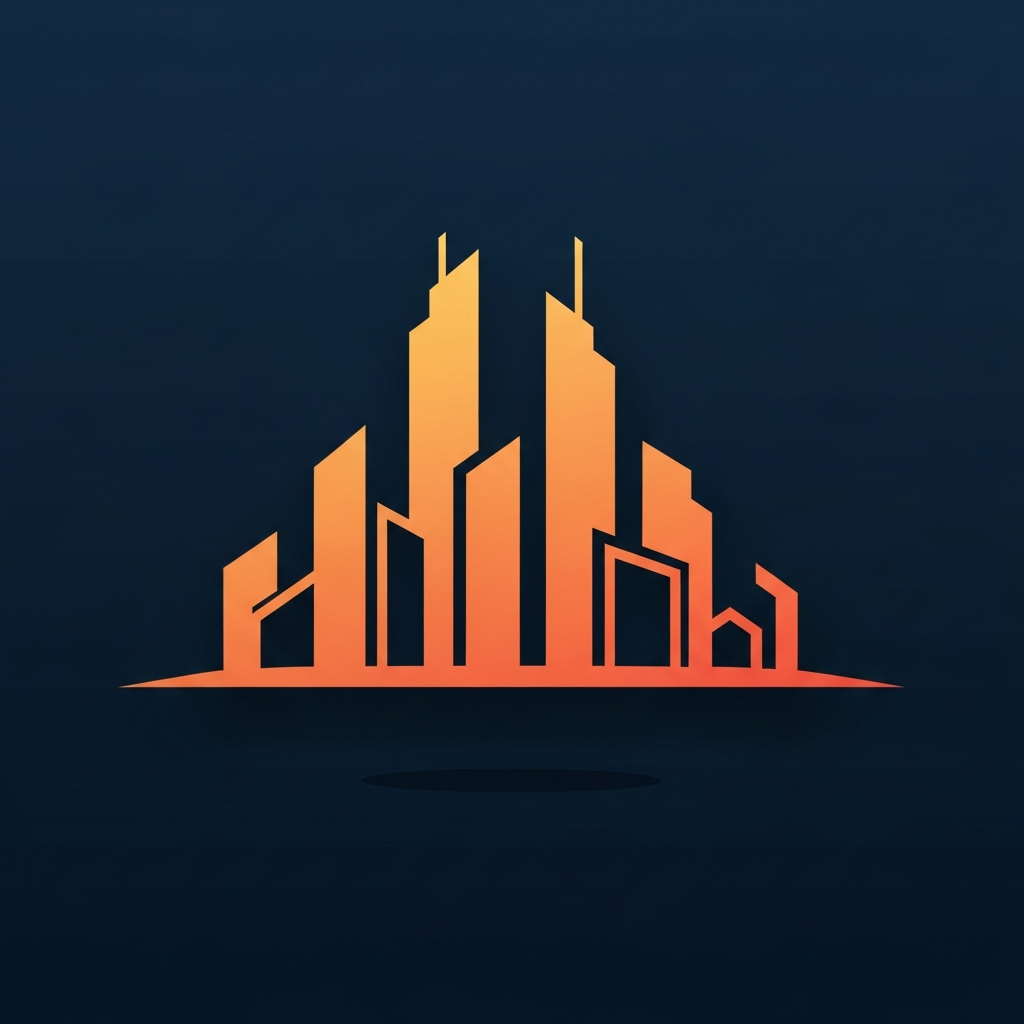
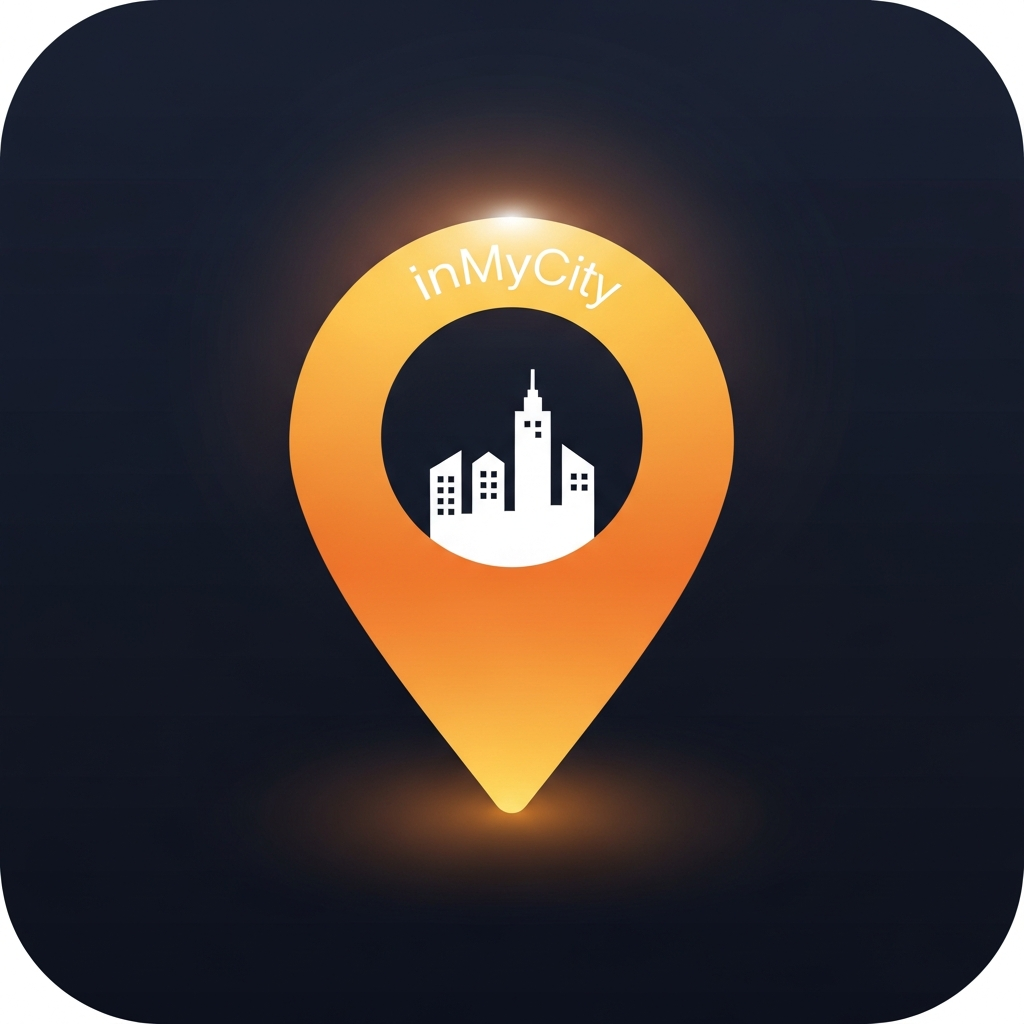
Update app to include secure login and personalized user profiles
Implement full PKCE authentication flow, integrate user data into the profile screen, and update app icon and splash screen.

Replit-Commit-Author: Agent
Replit-Commit-Session-Id: 15028fc7-a55e-48a7-9944-121663a23b5f
Replit-Commit-Checkpoint-Type: full_checkpoint
Replit-Commit-Event-Id: 18d10f1f-d669-42d3-af11-c0385d374e4c
Replit-Commit-Screenshot-Url: https://storage.googleapis.com/screenshot-production-us-central1/32ced0a7-9022-4a14-b569-9091b1f04a15/15028fc7-a55e-48a7-9944-121663a23b5f/f9QjFmu
Replit-Helium-Checkpoint-Created: true

diff --git a/artifacts/inmycity/app/(tabs)/profile.tsx b/artifacts/inmycity/app/(tabs)/profile.tsx
@@ -1,4 +1,4 @@
-import { useState } from "react";
+import React, { useState } from "react";
 import {
   View,
   Text,
@@ -7,20 +7,30 @@ import {
   TouchableOpacity,
   ScrollView,
   RefreshControl,
+  ActivityIndicator,
 } from "react-native";
+import { Image } from "expo-image";
 import { useSafeAreaInsets } from "react-native-safe-area-context";
 import { Feather } from "@expo/vector-icons";
 
 import { useColors } from "@/hooks/useColors";
 import { useGetFavorites, useGetCollections } from "@workspace/api-client-react";
+import { useAuth } from "@/lib/auth";
 import { PlaceCard } from "@/components/PlaceCard";
 import { SkeletonCard } from "@/components/SkeletonCard";
 
 type Tab = "favorites" | "collections";
 
+function getInitials(firstName: string | null, lastName: string | null): string {
+  const f = firstName?.trim()[0] ?? "";
+  const l = lastName?.trim()[0] ?? "";
+  return (f + l).toUpperCase() || "?";
+}
+
 export default function ProfileTab() {
   const colors = useColors();
   const insets = useSafeAreaInsets();
+  const { user, isLoading: authLoading, isAuthenticated, login, logout } = useAuth();
   const [activeTab, setActiveTab] = useState<Tab>("favorites");
 
   const { data: favorites, isLoading: favLoading, refetch: refetchFav } = useGetFavorites();
@@ -30,6 +40,18 @@ export default function ProfileTab() {
   const isRefreshing = favLoading || colLoading;
   const topPadding = Platform.OS === "web" ? 20 : insets.top + 8;
   const bottomPadding = Platform.OS === "web" ? 84 : 84 + insets.bottom;
+
+  const displayName = isAuthenticated && user
+    ? [user.firstName, user.lastName].filter(Boolean).join(" ") || user.email || "Member"
+    : "Guest";
+
+  const initials = isAuthenticated && user
+    ? getInitials(user.firstName, user.lastName)
+    : "G";
+
+  const subtitle = isAuthenticated && user
+    ? user.email ?? "Signed in"
+    : "Sign in to sync across devices";
 
   return (
     <ScrollView
@@ -45,21 +67,49 @@ export default function ProfileTab() {
 
       {/* Avatar card */}
       <View style={[styles.avatarCard, { backgroundColor: colors.card, borderColor: colors.border }]}>
-        <View style={[styles.avatar, { backgroundColor: colors.amber }]}>
-          <Text style={styles.avatarInitial}>G</Text>
-        </View>
+        {/* Avatar */}
+        {isAuthenticated && user?.profileImageUrl ? (
+          <Image
+            source={{ uri: user.profileImageUrl }}
+            style={styles.avatarImg}
+            contentFit="cover"
+          />
+        ) : (
+          <View style={[styles.avatar, { backgroundColor: colors.amber }]}>
+            <Text style={styles.avatarInitial}>{initials}</Text>
+          </View>
+        )}
+
+        {/* Name + sub */}
         <View style={styles.avatarInfo}>
-          <Text style={[styles.userName, { color: colors.foreground }]}>Guest</Text>
-          <Text style={[styles.userSub, { color: colors.mutedForeground }]}>
-            Sign in to sync across devices
+          <Text style={[styles.userName, { color: colors.foreground }]} numberOfLines={1}>
+            {displayName}
+          </Text>
+          <Text style={[styles.userSub, { color: colors.mutedForeground }]} numberOfLines={1}>
+            {subtitle}
           </Text>
         </View>
-        <TouchableOpacity
-          style={[styles.signInBtn, { backgroundColor: colors.amber }]}
-          activeOpacity={0.85}
-        >
-          <Text style={styles.signInBtnText}>Sign In</Text>
-        </TouchableOpacity>
+
+        {/* Sign In / Sign Out button */}
+        {authLoading ? (
+          <ActivityIndicator size="small" color={colors.amber} />
+        ) : isAuthenticated ? (
+          <TouchableOpacity
+            style={[styles.signInBtn, { backgroundColor: colors.muted }]}
+            onPress={logout}
+            activeOpacity={0.85}
+          >
+            <Text style={[styles.signInBtnText, { color: colors.foreground }]}>Sign Out</Text>
+          </TouchableOpacity>
+        ) : (
+          <TouchableOpacity
+            style={[styles.signInBtn, { backgroundColor: colors.amber }]}
+            onPress={login}
+            activeOpacity={0.85}
+          >
+            <Text style={[styles.signInBtnText, { color: "#fff" }]}>Sign In</Text>
+          </TouchableOpacity>
+        )}
       </View>
 
       {/* Saved section */}
@@ -106,7 +156,9 @@ export default function ProfileTab() {
                 <Feather name="heart" size={28} color={colors.mutedForeground} />
                 <Text style={[styles.emptyTitle, { color: colors.foreground }]}>No favorites yet</Text>
                 <Text style={[styles.emptyText, { color: colors.mutedForeground }]}>
-                  Tap the heart on any place to save it here.
+                  {isAuthenticated
+                    ? "Tap the heart on any place to save it here."
+                    : "Sign in to save and sync favorites across devices."}
                 </Text>
               </View>
             ) : (
@@ -158,9 +210,9 @@ export default function ProfileTab() {
       <Text style={[styles.sectionLabel, { color: colors.mutedForeground }]}>SETTINGS</Text>
       <View style={[styles.settingsCard, { backgroundColor: colors.card, borderColor: colors.border }]}>
         {([
-          { icon: "bell" as const, label: "Notifications" },
-          { icon: "moon" as const, label: "Dark Mode" },
-          { icon: "info" as const, label: "About inMyCity" },
+          { icon: "bell" as const,  label: "Notifications" },
+          { icon: "moon" as const,  label: "Dark Mode"     },
+          { icon: "info" as const,  label: "About inMyCity" },
         ]).map(({ icon, label }, idx, arr) => (
           <TouchableOpacity
             key={label}
@@ -201,12 +253,13 @@ const styles = StyleSheet.create({
     }),
   },
   avatar: { width: 52, height: 52, borderRadius: 26, alignItems: "center", justifyContent: "center" },
+  avatarImg: { width: 52, height: 52, borderRadius: 26 },
   avatarInitial: { fontFamily: "Inter_700Bold", fontSize: 22, color: "#fff" },
   avatarInfo: { flex: 1 },
   userName: { fontFamily: "Inter_700Bold", fontSize: 17, marginBottom: 2 },
   userSub: { fontFamily: "Inter_400Regular", fontSize: 12 },
   signInBtn: { paddingHorizontal: 16, paddingVertical: 8, borderRadius: 16 },
-  signInBtnText: { fontFamily: "Inter_600SemiBold", fontSize: 13, color: "#fff" },
+  signInBtnText: { fontFamily: "Inter_600SemiBold", fontSize: 13 },
   sectionLabel: {
     fontFamily: "Inter_600SemiBold",
     fontSize: 11,
@@ -225,10 +278,7 @@ const styles = StyleSheet.create({
       default: { shadowColor: "#000", shadowOffset: { width: 0, height: 2 }, shadowOpacity: 0.06, shadowRadius: 12, elevation: 3 },
     }),
   },
-  tabRow: {
-    flexDirection: "row",
-    borderBottomWidth: StyleSheet.hairlineWidth,
-  },
+  tabRow: { flexDirection: "row", borderBottomWidth: StyleSheet.hairlineWidth },
   tab: {
     flex: 1,
     flexDirection: "row",

diff --git a/artifacts/inmycity/lib/auth.tsx b/artifacts/inmycity/lib/auth.tsx
@@ -8,11 +8,14 @@ import React, {
 } from "react";
 import * as WebBrowser from "expo-web-browser";
 import * as SecureStore from "expo-secure-store";
+import * as Crypto from "expo-crypto";
 import { Platform } from "react-native";
 
 WebBrowser.maybeCompleteAuthSession();
 
 const AUTH_TOKEN_KEY = "auth_session_token";
+const ISSUER_URL = "https://replit.com/oidc";
+const REDIRECT_URI = "inmycity://oauth";
 
 function getApiBaseUrl(): string {
   if (process.env.EXPO_PUBLIC_DOMAIN) {
@@ -21,7 +24,11 @@ function getApiBaseUrl(): string {
   return "";
 }
 
-interface User {
+function getClientId(): string {
+  return process.env.EXPO_PUBLIC_REPL_ID || "";
+}
+
+export interface AuthUser {
   id: string;
   email: string | null;
   firstName: string | null;
@@ -30,7 +37,7 @@ interface User {
 }
 
 interface AuthContextValue {
-  user: User | null;
+  user: AuthUser | null;
   isLoading: boolean;
   isAuthenticated: boolean;
   login: () => Promise<void>;
@@ -44,6 +51,8 @@ const AuthContext = createContext<AuthContextValue>({
   login: async () => {},
   logout: async () => {},
 });
+
+// ── SecureStore helpers (no-ops on web) ────────────────────────────────────
 
 async function getToken(): Promise<string | null> {
   try {
@@ -68,19 +77,35 @@ async function deleteToken(): Promise<void> {
   } catch {}
 }
 
+// ── PKCE helpers ───────────────────────────────────────────────────────────
+
+async function randomBase64Url(byteCount: number): Promise<string> {
+  const bytes = await Crypto.getRandomBytesAsync(byteCount);
+  const base64 = btoa(String.fromCharCode(...new Uint8Array(bytes)));
+  return base64.replace(/\+/g, "-").replace(/\//g, "_").replace(/=/g, "");
+}
+
+async function codeChallenge(verifier: string): Promise<string> {
+  const digest = await Crypto.digestStringAsync(
+    Crypto.CryptoDigestAlgorithm.SHA256,
+    verifier,
+    { encoding: Crypto.CryptoEncoding.BASE64 },
+  );
+  return digest.replace(/\+/g, "-").replace(/\//g, "_").replace(/=/g, "");
+}
+
+// ── Provider ───────────────────────────────────────────────────────────────
+
 export function AuthProvider({ children }: { children: ReactNode }) {
-  const [user, setUser] = useState<User | null>(null);
+  const [user, setUser] = useState<AuthUser | null>(null);
   const [isLoading, setIsLoading] = useState(false);
 
   const fetchUser = useCallback(async () => {
     try {
       const token = await getToken();
-      if (!token) {
-        setUser(null);
-        return;
-      }
-      const apiBase = getApiBaseUrl();
-      const res = await fetch(`${apiBase}/api/auth/user`, {
+      if (!token) { setUser(null); return; }
+
+      const res = await fetch(`${getApiBaseUrl()}/api/auth/user`, {
         headers: { Authorization: `Bearer ${token}` },
       });
       const data = await res.json();
@@ -95,31 +120,82 @@ export function AuthProvider({ children }: { children: ReactNode }) {
     }
   }, []);
 
-  useEffect(() => {
-    fetchUser();
-  }, [fetchUser]);
+  useEffect(() => { fetchUser(); }, [fetchUser]);
 
   const login = useCallback(async () => {
+    // Web: redirect to server-side login (session cookie based)
+    if (Platform.OS === "web") {
+      const base = getApiBaseUrl();
+      if (base) window.location.href = `${base}/api/login?returnTo=/`;
+      return;
+    }
+
     try {
+      setIsLoading(true);
+
+      // 1. PKCE
+      const verifier = await randomBase64Url(32);
+      const challenge = await codeChallenge(verifier);
+      const state = await randomBase64Url(16);
+
+      // 2. Discover OIDC endpoints
+      const disc = await fetch(`${ISSUER_URL}/.well-known/openid-configuration`);
+      const { authorization_endpoint } = await disc.json();
+
+      // 3. Build authorization URL
+      const params = new URLSearchParams({
+        client_id:              getClientId(),
+        response_type:          "code",
+        scope:                  "openid email profile offline_access",
+        redirect_uri:           REDIRECT_URI,
+        code_challenge:         challenge,
+        code_challenge_method:  "S256",
+        state,
+        prompt:                 "login",
+      });
+      const authUrl = `${authorization_endpoint}?${params}`;
+
+      // 4. Open browser
+      const result = await WebBrowser.openAuthSessionAsync(authUrl, REDIRECT_URI);
+      if (result.type !== "success" || !result.url) return;
+
+      // 5. Parse code + verify state
+      const redirected = new URL(result.url);
+      const code = redirected.searchParams.get("code");
+      if (!code || redirected.searchParams.get("state") !== state) return;
+
+      // 6. Exchange code for session token
       const apiBase = getApiBaseUrl();
-      if (!apiBase) return;
-      const loginUrl = `${apiBase}/api/auth/login?mobile=1`;
-      const result = await WebBrowser.openAuthSessionAsync(loginUrl, apiBase);
-      if (result.type === "success") {
+      const exchangeRes = await fetch(`${apiBase}/api/mobile-auth/token-exchange`, {
+        method:  "POST",
+        headers: { "Content-Type": "application/json" },
+        body: JSON.stringify({
+          code,
+          code_verifier: verifier,
+          redirect_uri:  REDIRECT_URI,
+          state,
+        }),
+      });
+
+      const { token } = await exchangeRes.json();
+      if (token) {
+        await saveToken(token);
         await fetchUser();
       }
     } catch (err) {
       console.error("Login error:", err);
+    } finally {
+      setIsLoading(false);
     }
   }, [fetchUser]);
 
   const logout = useCallback(async () => {
     try {
       const token = await getToken();
-      const apiBase = getApiBaseUrl();
-      if (token && apiBase) {
-        await fetch(`${apiBase}/api/mobile-auth/logout`, {
-          method: "POST",
+      const base = getApiBaseUrl();
+      if (token && base) {
+        await fetch(`${base}/api/mobile-auth/logout`, {
+          method:  "POST",
           headers: { Authorization: `Bearer ${token}` },
         });
       }
@@ -129,15 +205,7 @@ export function AuthProvider({ children }: { children: ReactNode }) {
   }, []);
 
   return (
-    <AuthContext.Provider
-      value={{
-        user,
-        isLoading,
-        isAuthenticated: !!user,
-        login,
-        logout,
-      }}
-    >
+    <AuthContext.Provider value={{ user, isLoading, isAuthenticated: !!user, login, logout }}>
       {children}
     </AuthContext.Provider>
   );
